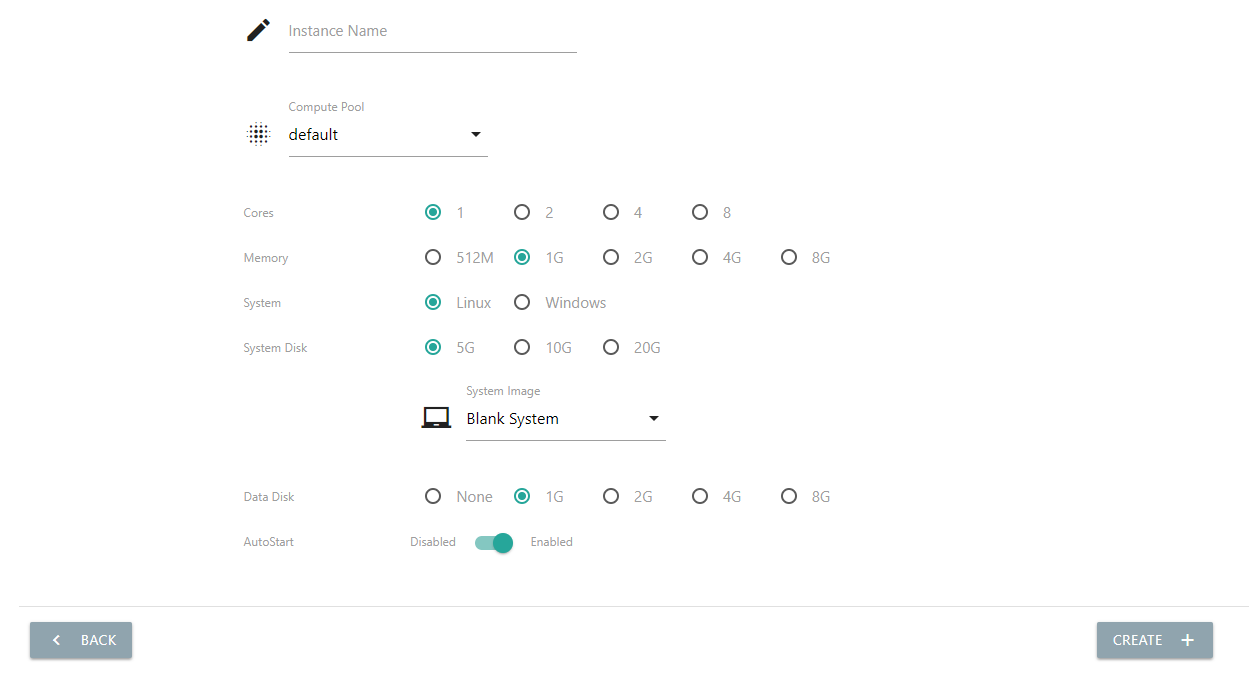
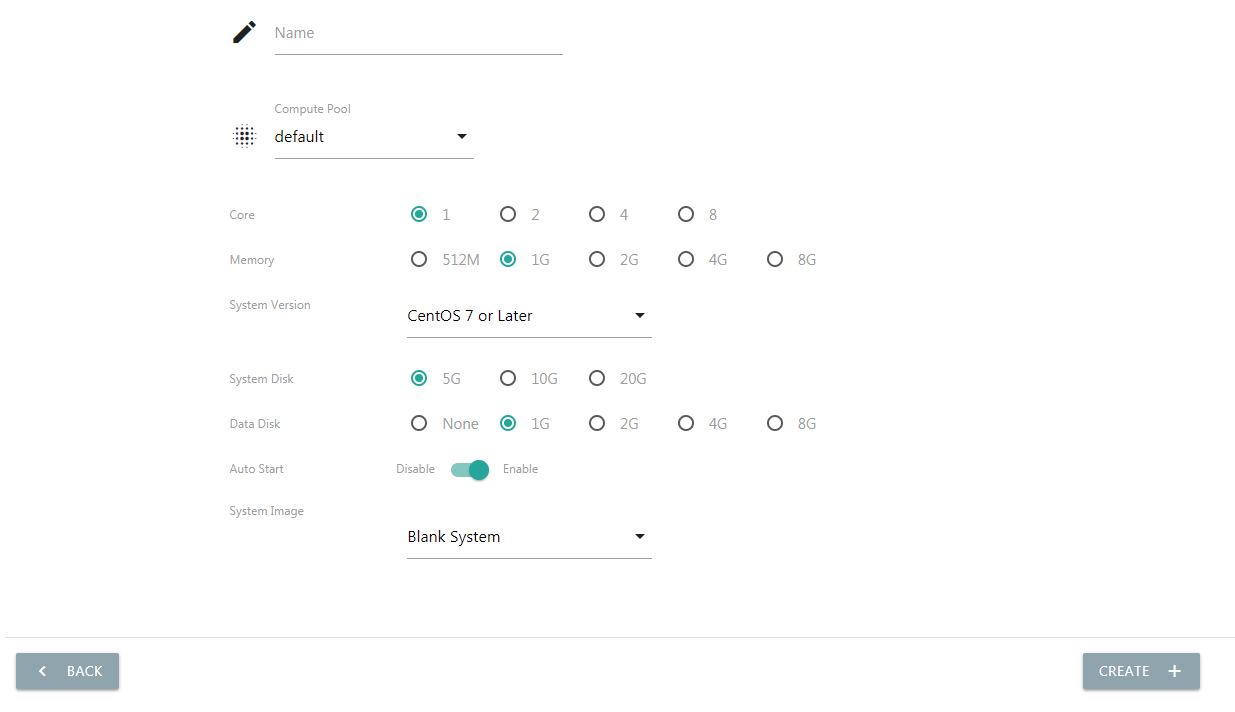
v0.5.1

diff --git a/docs/instance.rst b/docs/instance.rst
@@ -17,9 +17,11 @@ Nano中云主机是基于资源池创建的，Core收到创建云主机请求时
 - 资源池：承载该实例的资源池名称，Nano会在指定资源池中选择合适的Cell节点进行创建
 - 核心数：为云主机分配的核心数量，不建议设置超过Cell的最大物理线程数
 - 内存：为云主机分配的内存大小，不能超过Cell的最大物理内存
+- 系统版本：Nano会根据选择的版本对云主机硬件设置进行优化，在保证兼容性的情况提供更好的性能
 - 系统磁盘：选择云主机系统磁盘的数据源，详情见后
 - 数据磁盘：选择是否为云主机挂载额外的数据盘
 - 开机启动：启用后，当Cell服务器开机时，会自动启动云主机实例
+- 系统镜像：是否从预制镜像生成云主机系统盘的数据
 
 .. image:: images/3_1_create_instance.png
 
@@ -167,3 +169,36 @@ Nano中云主机是基于资源池创建的，Core收到创建云主机请求时
 此时，点击弹出镜像功能即可将光盘镜像从实例中卸载
 
 .. image:: images/3_21_eject_media.png
+
+实例迁移
+==========
+
+为了方便管理员手工优化资源配置和进行日常停机维护，Nano提供了云主机实例迁移功能。 **请注意，实例迁移必须基于后端共享存储使用。**
+
+单实例迁移
+------------
+
+单实例迁移可以将一个实例迁移到指定Cell节点，用于优化资源配置或者服务性能。在云主机清单中选择已停机的实例，点击“Migrate/迁移”功能
+
+.. image:: images/3_migrate_instance.png
+
+在弹出菜单中选择迁移目标节点，确认后等待迁移完成即可。
+
+.. image:: images/3_migrate_instance_confirm.png
+
+迁移完成后可以看到云主机承载节点已变更（如果使用第三方远程管理工具，请注意此时监控地址也已经迁移到新Cell节点，请查看云主机详情获取新地址）
+
+.. image:: images/3_migrate_instance_finish.png
+
+全节点迁移
+------------
+
+全节点迁移是将一个Cell节点的所有实例迁移到其他节点上，通常用于停机维护或者服务器搬迁。
+
+在Cell节点列表中，点击“Migrate/迁移”功能
+
+.. image:: images/3_migrate_all_instance.png
+
+在弹出菜单中选择迁移目标节点，确认后等待迁移完成即可。
+
+.. image:: images/3_migrate_all_instance_confirm.png

diff --git a/docs/deployment.rst b/docs/deployment.rst
@@ -23,12 +23,12 @@ Installer会自行选择最合适的配置进行建议， **对于初次安装Na
 
 安装Nano平台，只需要解压并执行Installer即可。只需要选择需要在当前服务器部署的模块，Installer会自动完成参数配置、依赖安装和模块部署。
 
-以v0.4.1为例，在shell执行以下指令：
+以v0.5.1为例，在shell执行以下指令：
 
 ::
 
-  $wget https://nanos.cloud/media/nano_installer_0.4.1.tar.gz
-  $tar zxfv nano_installer_0.4.1.tar.gz
+  $wget https://nanos.cloud/media/nano_installer_0.5.1.tar.gz
+  $tar zxfv nano_installer_0.5.1.tar.gz
   $cd nano_installer
   $./installer
 
@@ -175,11 +175,13 @@ NFS Server配置完成后，在Web门户上选择"Storage"=>"Create"创建新的
 
 共享存储创建完成后，可以修改已有计算池的关联存储或者新建一个新的计算池，当新的Cell节点加入资源池后，Nano会自动同步并设置存储配置，无需用户干预。
 
-已修改默认计算池default为例，在"Resource Pool"的资源池清单中，点击default资源池的"modify"图标，在编辑界面下拉菜单中选择新建的nfs-pool1
+以修改默认计算池default为例，在"Resource Pool"的资源池清单中，点击default资源池的"modify"图标，在编辑界面下拉菜单中选择新建的nfs-pool1。
+
+建议需要保证云主机实例高可用的用户打开"Failover/故障迁移"开关，当故障迁移生效时，如果Nano检测到某一Cell节点失联，会将该节点承载的云主机实例自动迁移到集群内其他节点恢复服务，详见“平台管理-故障迁移”章节。
 
 .. image:: images/2_modify_pool.png
 
-保存后查看资源池清单属性检查是否生效
+修改后检查清单中相应属性和图标是否生效
 
 .. image:: images/2_modify_pool_success.png
 
